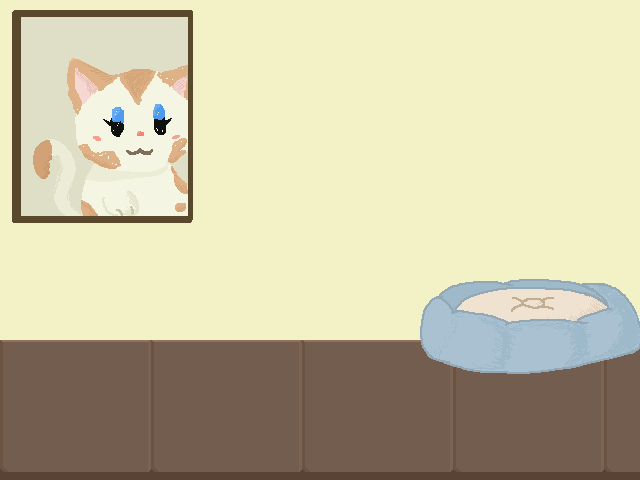
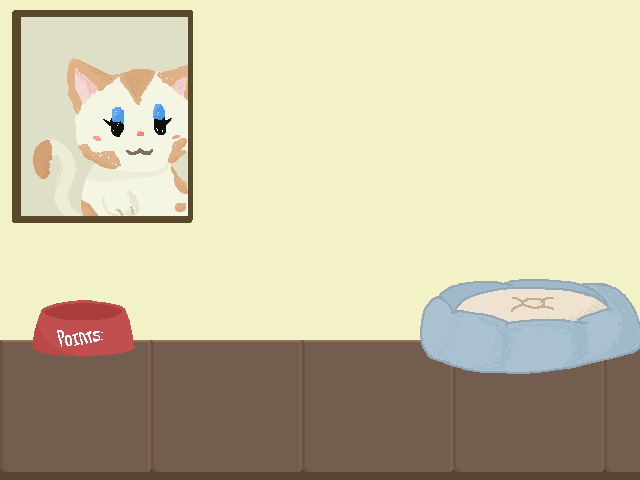
added changelog, polishing, cond compilation shit

Changed region(s): [[0.0312, 0.625, 0.2188, 0.75]]

diff --git a/CHANGELOG.md b/CHANGELOG.md
@@ -1,0 +1,10 @@
+# 08.01.21
+
+- Added a changelog LOL
+- Implemented a FUNCTIONAL respawn logic (thanks to @migmoog, godlike)
+- Fixed some bug with the blanket position.
+- Added a rough points system.
+
+### Soon:
+- Pause menu ;)
+- Probably music!
